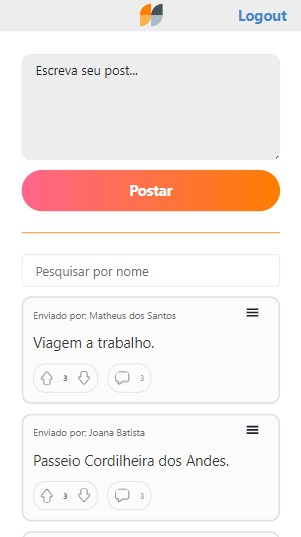
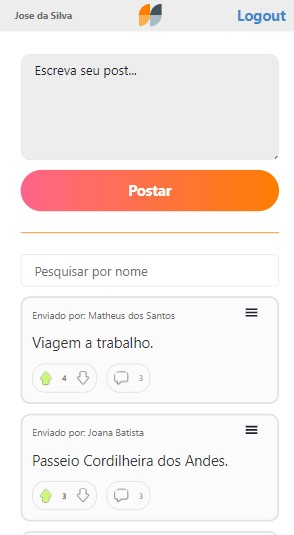
likes-history

diff --git a/src/components/post/PostCard.js b/src/components/post/PostCard.js
@@ -5,10 +5,15 @@ import {
   LikesNumber,
   OwnerName,
   PostContent,
-  ReactionIcon,
+  LikeIcon,
+  DislikeIcon,
   ReactionsDiv,
+  CommentIcon,
 } from "./style";
 import likeIcon from "../../assets/likeIcon.png";
+import likeIconRed from "../../assets/likeIconRed.png";
+import likeIconGreen from "../../assets/likeIconGreen.png";
+
 import dislikeIcon from "../../assets/dislikeIcon.png";
 import commentIcon from "../../assets/commentIcon.png";
 import { useNavigate } from "react-router-dom";
@@ -35,7 +40,7 @@ import { useState } from "react";
 import { useForm } from "../../hooks/useForm";
 
 export const PostCard = ({ post, like, deleteCard, editContent }) => {
-  const { id, creator, content, likes, dislikes, comments } = post;
+  const { id, creator, content, likes, dislikes, comments, reaction } = post;
   const [editing, setEditing] = useState(false);
   const sendEdit = (e) =>{
     e.preventDefault();
@@ -97,19 +102,32 @@ export const PostCard = ({ post, like, deleteCard, editContent }) => {
 
       <ReactionsDiv>
         <LikesDiv>
-          <ReactionIcon
+          {reaction === true?
+          <LikeIcon
+            onClick={() => like(isComment, id, true)}
+            src={likeIconGreen}
+            reaction={reaction}
+          />:
+          <LikeIcon
             onClick={() => like(isComment, id, true)}
             src={likeIcon}
-          />
+            reaction={reaction}
+          />}
           <LikesNumber>{likes - dislikes}</LikesNumber>
-          <ReactionIcon
+          {reaction === false?          
+           <DislikeIcon
+            onClick={() => like(isComment, id, false)}
+            src={likeIconRed}
+          />:
+          <DislikeIcon
             onClick={() => like(isComment, id, false)}
             src={dislikeIcon}
-          />
+            reaction={reaction}
+          />}
         </LikesDiv>
         {!isComment ? (
           <LikesDiv onClick={() => goToPostPage(navigator, id)}>
-            <ReactionIcon src={commentIcon} />
+            <CommentIcon src={commentIcon} />
             <CommentsNumber>{comments}</CommentsNumber>
           </LikesDiv>
         ) : undefined}

diff --git a/src/components/header/Header.js b/src/components/header/Header.js
@@ -1,24 +1,32 @@
-import { BackIcon, HeaderStyled, LinkText, LogoHeader } from "./style";
+import { BackIcon, HeaderStyled, LinkText, LogoHeader, UserName } from "./style";
 import logo from "../../assets/logo.png";
-import backIcon from '../../assets/backIcon.png'
+import backIcon from "../../assets/backIcon.png";
 import { useNavigate } from "react-router-dom";
 import { goToSignInPage } from "../../routes/coordinator";
 import { goToFeedPage } from "../../routes/coordinator";
 
 export const Header = ({ currentPage }) => {
-    const navigator = useNavigate()
-    const logout = () => {
-      localStorage.removeItem('tokenLabeddit');
-      goToSignInPage(navigator)
-    }
+  const navigator = useNavigate();
+  const logout = () => {
+    localStorage.removeItem("tokenLabeddit");
+    localStorage.removeItem("userName");
+    goToSignInPage(navigator);
+  };
   return (
     <HeaderStyled>
       <LogoHeader src={logo} />
-      {currentPage === 'post'?<BackIcon onClick={()=>goToFeedPage(navigator)} src={backIcon}/>:<div></div>}
-      {currentPage === "signup" ? (
-        <LinkText onClick={()=>goToSignInPage(navigator)}>Entrar</LinkText>
+      {currentPage === "post" ? (
+        <BackIcon onClick={() => goToFeedPage(navigator)} src={backIcon} />
       ) : (
+        <div></div>
+      )}
+      {currentPage === "signup" ? (
+        <LinkText onClick={() => goToSignInPage(navigator)}>Entrar</LinkText>
+      ) : (
+        <>
         <LinkText onClick={logout}>Logout</LinkText>
+        <UserName page={currentPage} >{localStorage.getItem("userName")}</UserName>
+        </>
       )}
     </HeaderStyled>
   );

diff --git a/src/components/post/style.js b/src/components/post/style.js
@@ -41,7 +41,25 @@ export const LikesDiv = styled.div`
     align-items: center;
 `
 
-export const ReactionIcon = styled.img`
+export const LikeIcon = styled.img`
+    height: 18px;
+    cursor: pointer;
+    border-radius: 8px;
+    transition: background-color 0.5s ease-out;
+    :active{
+        background-color: ${theme.colors.orange['500']};
+    }
+`
+export const DislikeIcon = styled.img`
+    height: 18px;
+    cursor: pointer;
+    border-radius: 8px;
+    transition: background-color 0.5s ease-out;
+    :active{
+        background-color: ${theme.colors.orange['500']};
+    }
+`
+export const CommentIcon = styled.img`
     height: 18px;
     cursor: pointer;
     border-radius: 8px;

diff --git a/src/pages/post/PostPage.js b/src/pages/post/PostPage.js
@@ -108,14 +108,11 @@ const handleSearch = (e) => {
 
   useEffect(() => {
     requestPost(localStorage.getItem("tokenLabeddit"), id);
-  }, [message ,id, commentsList]);
+  }, [message]);
 
   useEffect(() => {
     requestComments(localStorage.getItem("tokenLabeddit"), id);
-  }, [message, id]);
-
-
-
+  }, [message]);
 
   const currentPage = "post";
 

diff --git a/src/pages/sign-in/SignInPage.js b/src/pages/sign-in/SignInPage.js
@@ -29,6 +29,7 @@ export const SignInPage = () => {
         password: form.password,
       });
       localStorage.setItem("tokenLabeddit", response.token);
+      localStorage.setItem("userName", response.user.name)
       setIsLoading(false)
       goToFeedPage(navigator);
     } catch (error) {

diff --git a/src/pages/sign-up/SignUpPage.js b/src/pages/sign-up/SignUpPage.js
@@ -32,6 +32,7 @@ export const SignUpPage = () => {
         password: form.password,
       });
       localStorage.setItem("tokenLabeddit", response.token);
+      localStorage.setItem("userName", response.user.name)
       setIsLoading(false)
       goToFeedPage(navigator);
     } catch (error) {

diff --git a/src/components/header/style.js b/src/components/header/style.js
@@ -31,3 +31,11 @@ left: 20px;
 height:24px;
 cursor: pointer;
 `
+
+export const UserName = styled.p`
+color: ${theme.colors.gray['700']};
+position: absolute;
+left: ${({page})=> page==='post'?'64px':'20px'};
+font-size: 12px;
+font-weight: bold;
+`

diff --git a/README.md b/README.md
@@ -79,4 +79,5 @@ $ npm run start
 <img src="https://media.licdn.com/dms/image/D4D03AQGRDaGGibo_9w/profile-displayphoto-shrink_800_800/0/1678072127127?e=1690416000&v=beta&t=YzhLo3Gs9nYxZHqp_nk7WdOBRqNE7B9RJ5rP7oAfyCI" alt="Yuri Moralles" style="width: 220px; border-radius: 110px;"/>
 </div>
 
+## Yuri Barañano S. Moralles
 [Linkedin](https://www.linkedin.com/in/yuri-moralles-ab752291/)
